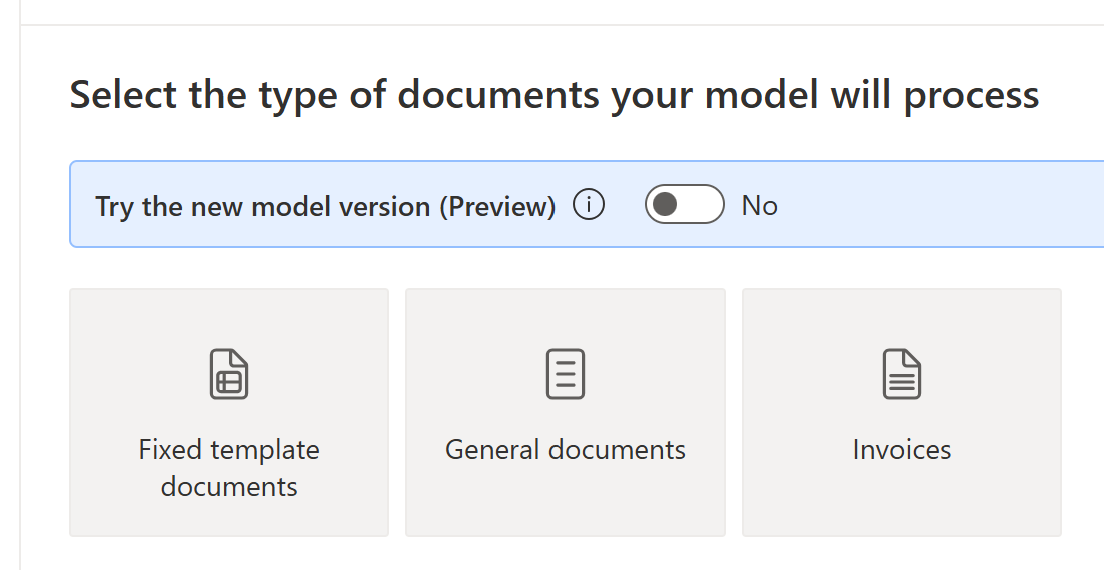
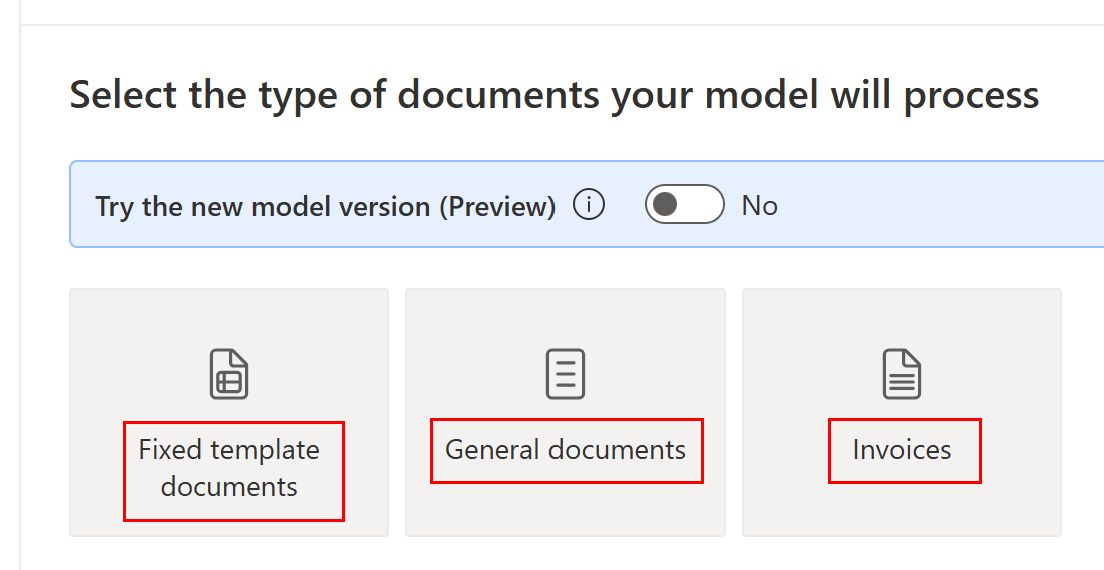
new-models

diff --git a/ai-builder-docs/create-form-processing-model.md b/ai-builder-docs/create-form-processing-model.md
@@ -8,7 +8,7 @@ contributors:
   - JoeFernandezMS
   - v-aangie
 ms.topic: conceptual
-ms.date: 02/20/2025
+ms.date: 03/03/2025
 ms.author: plarrue
 ms.reviewer: angieandrews
 ---
@@ -41,7 +41,7 @@ On the **Choose document type** step, select the type of document you want to bu
 
 ## Try the new model version (Preview)
 
-By selecting the toggle **Try the new model version (Preview)**, you can try the latest preview model version for Fixed template documents, General documents and Invoices.
+By selecting the toggle **Try the new model version (Preview)**, you can try the latest preview model version for **Fixed template documents**, **General documents**, and **Invoices**.
 
 > [!IMPORTANT]
 > - The new model version is a preview release.
